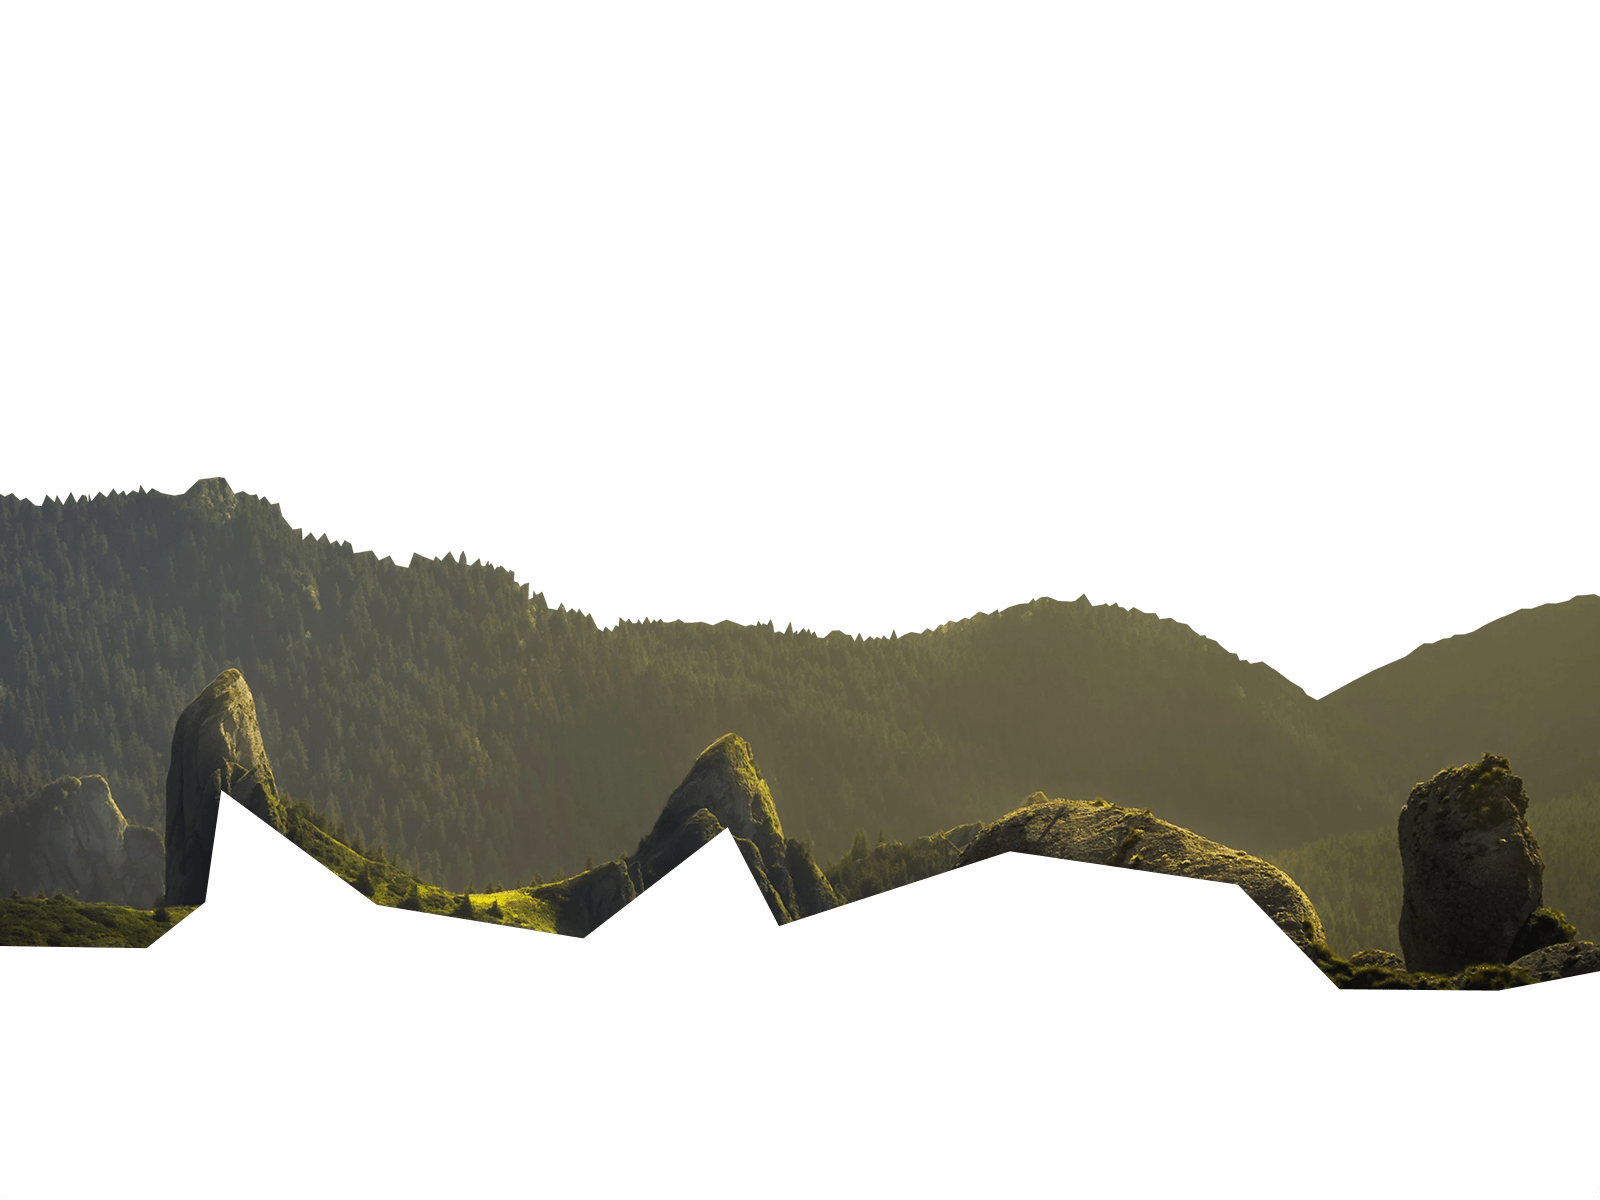
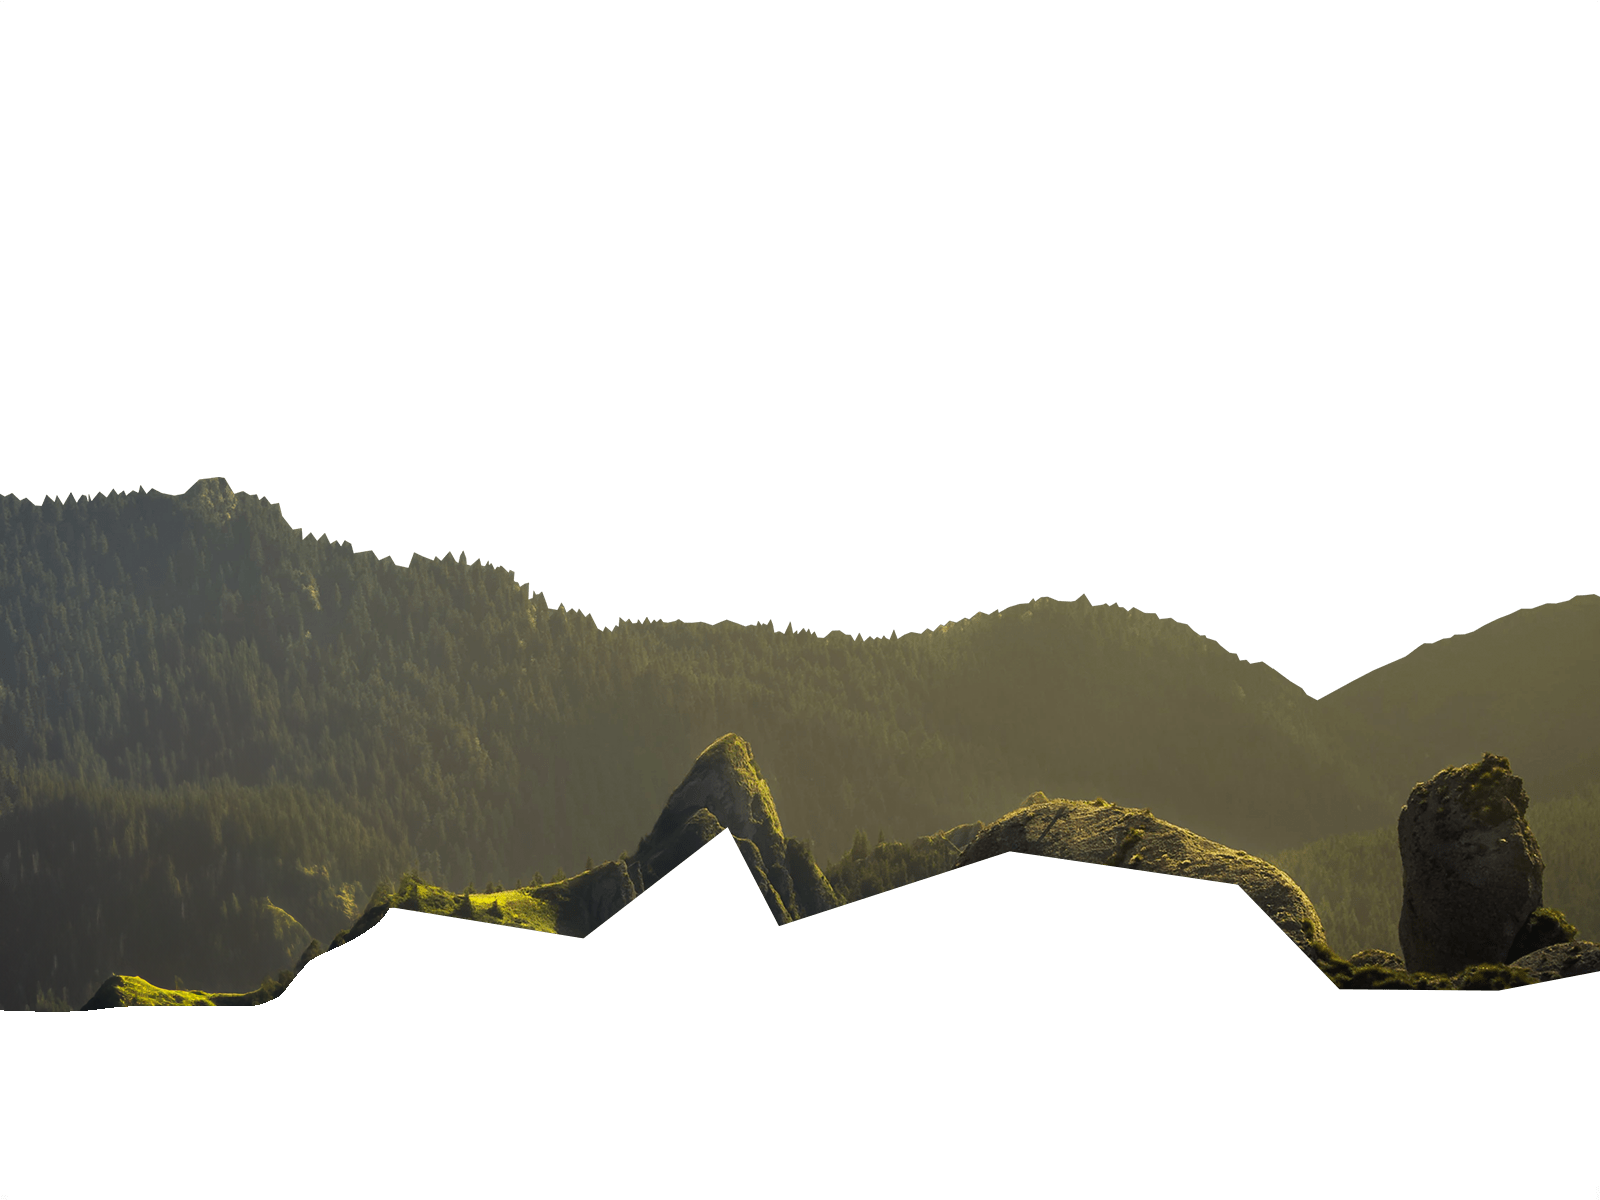
responsive units

Changed region(s): [[0.0, 0.555, 0.25, 0.8633]]

diff --git a/src/components/miscellaneous/ParallaxBackground.tsx b/src/components/miscellaneous/ParallaxBackground.tsx
@@ -30,8 +30,8 @@ const ParallaxBackground: React.FC<Props> = ({ layers }) => {
 
         const movingValue = depth * 10;
 
-        position.targetX = (window.innerWidth - e.clientX * movingValue) / 100;
-        position.targetY = (window.innerHeight - e.clientY * movingValue) / 100;
+        position.targetX = (1 - e.clientX * movingValue) / window.innerWidth;
+        position.targetY = (1 - e.clientY * movingValue) / window.innerHeight;
       });
     };
 
@@ -45,14 +45,13 @@ const ParallaxBackground: React.FC<Props> = ({ layers }) => {
           position.currentX = lerp(position.currentX, position.targetX, 0.007);
           position.currentY = lerp(position.currentY, position.targetY, 0.007);
 
-          const adjustedScale = 1 + depth * 0.2;
+          const adjustedScale = 1 + depth * 0.3;
 
           const adjustedPositionY =
             position.currentY +
-            +((window.scrollY * depth * 1) / window.innerHeight) * 1000 +
-            depth * 120;
-
-          imageElement.style.transform = `translate(${position.currentX}px, ${adjustedPositionY}px) scale(${adjustedScale})`;
+            depth * 15 +
+            (window.scrollY / window.innerHeight) * 100 * depth;
+          imageElement.style.transform = `translate(${position.currentX}vw, ${adjustedPositionY}vh) scale(${adjustedScale})`;
         });
       }
       requestAnimationFrame(animate);
@@ -71,10 +70,9 @@ const ParallaxBackground: React.FC<Props> = ({ layers }) => {
         <img
           src={layer.image}
           alt="hero layer image"
-          className="absolute inset-0 h-full w-full object-cover"
+          className="absolute inset-0 h-full w-full object-cover object-center"
           key={layer.image}
           ref={layer.ref}
-          style={{ scale: 1 + layer.depth * 0.2 }}
         />
       ))}
     </>

diff --git a/src/components/blocks/Hero/Hero.tsx b/src/components/blocks/Hero/Hero.tsx
@@ -41,11 +41,11 @@ const Hero: React.FC = () => {
       {/* Block One */}
       <div className="block-one relative h-screen w-screen overflow-hidden">
         <ParallaxBackground layers={Layers} />
-        <div className="absolute bottom-0 h-[15vh] w-full bg-gradient-to-t from-black to-transparent" />
+        <div className="absolute bottom-0 h-[15vh] w-full bg-gradient-to-t from-[#101208] to-transparent" />
       </div>
 
       {/* Block Two */}
-      <div className="block-two relative h-screen bg-black" />
+      <div className="block-two relative h-screen bg-[#101208]" />
     </section>
   );
 };
